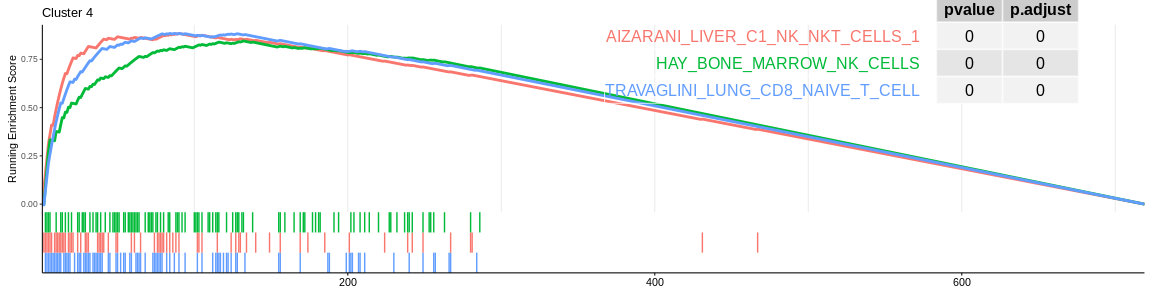
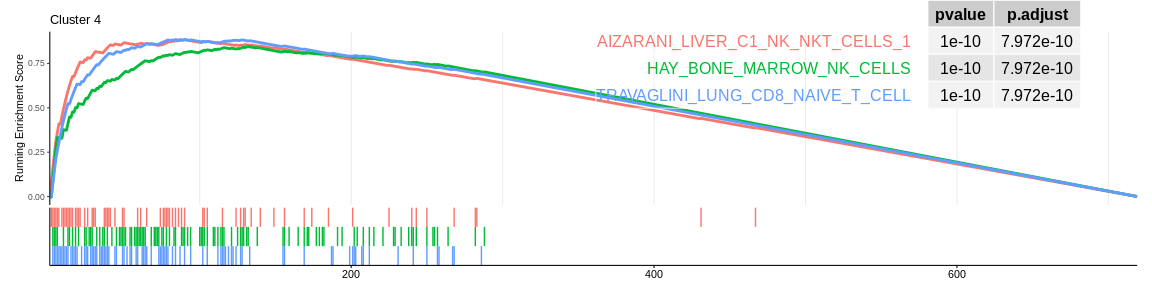
update seurat v5 GSEA

Changed region(s): [[0.0, 0.0, 1.0, 1.0], [0.0312, 0.0312, 0.0938, 0.0938]]

diff --git a/docs/scRNAseq_basics/gsea.md b/docs/scRNAseq_basics/gsea.md
@@ -138,18 +138,18 @@ C8_t2g <- msigdbr(species = "Homo sapiens", category = "C8") %>%
   kable(head(C8_t2g, 10))
 ```
 
-  | gs_name                          | ensembl_gene    |
-  |:---------------------------------|:----------------|
-  | AIZARANI_LIVER_C1_NK_NKT_CELLS_1 | ENSG00000123146 |
-  | AIZARANI_LIVER_C1_NK_NKT_CELLS_1 | ENSG00000205336 |
-  | AIZARANI_LIVER_C1_NK_NKT_CELLS_1 | ENSG00000106948 |
-  | AIZARANI_LIVER_C1_NK_NKT_CELLS_1 | ENSG00000132965 |
-  | AIZARANI_LIVER_C1_NK_NKT_CELLS_1 | ENSG00000244509 |
-  | AIZARANI_LIVER_C1_NK_NKT_CELLS_1 | ENSG00000239713 |
-  | AIZARANI_LIVER_C1_NK_NKT_CELLS_1 | ENSG00000163219 |
-  | AIZARANI_LIVER_C1_NK_NKT_CELLS_1 | ENSG00000186517 |
-  | AIZARANI_LIVER_C1_NK_NKT_CELLS_1 | ENSG00000180448 |
-  | AIZARANI_LIVER_C1_NK_NKT_CELLS_1 | ENSG00000123329 |
+| gs_name                    | ensembl_gene    |
+|:---------------------------|:----------------|
+| AIZARANI_LIVER_C10_MVECS_1 | ENSG00000175899 |
+| AIZARANI_LIVER_C10_MVECS_1 | ENSG00000213088 |
+| AIZARANI_LIVER_C10_MVECS_1 | ENSG00000102575 |
+| AIZARANI_LIVER_C10_MVECS_1 | ENSG00000139567 |
+| AIZARANI_LIVER_C10_MVECS_1 | ENSG00000143537 |
+| AIZARANI_LIVER_C10_MVECS_1 | ENSG00000154734 |
+| AIZARANI_LIVER_C10_MVECS_1 | ENSG00000163638 |
+| AIZARANI_LIVER_C10_MVECS_1 | ENSG00000129467 |
+| AIZARANI_LIVER_C10_MVECS_1 | ENSG00000284814 |
+| AIZARANI_LIVER_C10_MVECS_1 | ENSG00000069122 |
 
 ``` r
 ## Apply GSEA for each cluster
@@ -169,14 +169,6 @@ GSEA_list <- lapply(levels(pbmc_markers_annotated$cluster), function(cluster_nam
   ## Perform GSEA analysis
   gseaC8 <- GSEA(geneList_byclus, TERM2GENE = C8_t2g)
   gseaC8@result$cluster <- cluster_name #add cluster name as column
-
-  ## Add plot
-  # print(ridgeplot(gseaC8,
-  #                 showCategory = 3,
-  #                 orderBy = "NES") +
-  #         ggtitle(paste("Cluster", cluster_name)) +
-  #         theme(axis.text.y = element_text(size = 10),
-  #               legend.key.size = unit(0.2, 'cm')))
 
   print(gseaplot2(gseaC8,
                   geneSetID = rownames(gseaC8@result %>%
@@ -203,39 +195,44 @@ GSEA_res <- GSEA_res %>%
   group_by(cluster)
 
 ## Visualize first 3 signatures for each cluster (removing the vector of genes just for the visualization and the description that match ID column for this dataset MSigDB)
-kable(top_n(x= GSEA_res, n = 3, wt = NES)[, -c(2,11)])
+kable(slice_max(
+  GSEA_res, 
+  n = 3, 
+  order_by = NES,
+  with_ties = FALSE)[, -c(2, 11)]
+)
 ```
 
 ??? abstract "First Enriched MSigDB gene sets for each cluster"
-    | ID                                                      | setSize | enrichmentScore |      NES |  pvalue |  p.adjust |   qvalues | rank | leading_edge                   | cluster |
-    |:--------------------------------------------------------|--------:|----------------:|---------:|--------:|----------:|----------:|-----:|:-------------------------------|:--------|
-    | HAY_BONE_MARROW_NAIVE_T\_CELL                           |     208 |       0.9209917 | 3.046758 | 0.0e+00 | 0.0000000 | 0.0000000 |  216 | tags=76%, list=17%, signal=75% | 0       |
-    | RUBENSTEIN_SKELETAL_MUSCLE_T\_CELLS                     |     153 |       0.8553262 | 2.739346 | 0.0e+00 | 0.0000000 | 0.0000000 |  146 | tags=67%, list=11%, signal=67% | 0       |
-    | TRAVAGLINI_LUNG_CD4_NAIVE_T\_CELL                       |     116 |       0.9155134 | 2.824719 | 0.0e+00 | 0.0000000 | 0.0000000 |  135 | tags=75%, list=11%, signal=74% | 0       |
-    | AIZARANI_LIVER_C23_KUPFFER_CELLS_3                      |     142 |       0.8455834 | 2.003393 | 0.0e+00 | 0.0000000 | 0.0000000 |  257 | tags=68%, list=16%, signal=62% | 1       |
-    | DURANTE_ADULT_OLFACTORY_NEUROEPITHELIUM_DENDRITIC_CELLS |     101 |       0.8823161 | 2.065142 | 0.0e+00 | 0.0000000 | 0.0000000 |  192 | tags=72%, list=12%, signal=68% | 1       |
-    | TRAVAGLINI_LUNG_CLASSICAL_MONOCYTE_CELL                 |     168 |       0.8365088 | 1.997979 | 0.0e+00 | 0.0000000 | 0.0000000 |  265 | tags=69%, list=16%, signal=64% | 1       |
-    | HAY_BONE_MARROW_NAIVE_T\_CELL                           |     230 |       0.7672855 | 3.015408 | 0.0e+00 | 0.0000000 | 0.0000000 |  260 | tags=67%, list=25%, signal=64% | 2       |
-    | RUBENSTEIN_SKELETAL_MUSCLE_T\_CELLS                     |     145 |       0.7263295 | 2.725064 | 0.0e+00 | 0.0000000 | 0.0000000 |  192 | tags=58%, list=19%, signal=55% | 2       |
-    | TRAVAGLINI_LUNG_CD4_NAIVE_T\_CELL                       |     107 |       0.7627843 | 2.748389 | 0.0e+00 | 0.0000000 | 0.0000000 |  180 | tags=64%, list=17%, signal=59% | 2       |
-    | AIZARANI_LIVER_C34_MHC_II_POS_B\_CELLS                  |      83 |       0.9034082 | 2.063760 | 0.0e+00 | 0.0000000 | 0.0000000 |  152 | tags=80%, list=13%, signal=75% | 3       |
-    | FAN_EMBRYONIC_CTX_BRAIN_B\_CELL                         |      70 |       0.9140261 | 2.070592 | 0.0e+00 | 0.0000000 | 0.0000000 |  103 | tags=66%, list=9%, signal=64%  | 3       |
-    | TRAVAGLINI_LUNG_B\_CELL                                 |     112 |       0.9092172 | 2.119503 | 0.0e+00 | 0.0000000 | 0.0000000 |  121 | tags=68%, list=10%, signal=67% | 3       |
-    | AIZARANI_LIVER_C1_NK_NKT_CELLS_1                        |      70 |       0.8838737 | 2.284841 | 0.0e+00 | 0.0000000 | 0.0000000 |   90 | tags=64%, list=13%, signal=62% | 4       |
-    | HAY_BONE_MARROW_NK_CELLS                                |     105 |       0.8450920 | 2.260853 | 0.0e+00 | 0.0000000 | 0.0000000 |  132 | tags=68%, list=18%, signal=65% | 4       |
-    | TRAVAGLINI_LUNG_CD8_NAIVE_T\_CELL                       |      92 |       0.8842939 | 2.338596 | 0.0e+00 | 0.0000000 | 0.0000000 |   90 | tags=62%, list=13%, signal=62% | 4       |
-    | AIZARANI_LIVER_C31_KUPFFER_CELLS_5                      |      53 |       0.8510682 | 1.948702 | 0.0e+00 | 0.0000000 | 0.0000000 |  191 | tags=68%, list=10%, signal=63% | 5       |
-    | HAY_BONE_MARROW_MONOCYTE                                |     191 |       0.8332887 | 2.001325 | 0.0e+00 | 0.0000000 | 0.0000000 |  295 | tags=73%, list=16%, signal=68% | 5       |
-    | TRAVAGLINI_LUNG_NONCLASSICAL_MONOCYTE_CELL              |     163 |       0.8581938 | 2.050371 | 0.0e+00 | 0.0000000 | 0.0000000 |  301 | tags=81%, list=16%, signal=75% | 5       |
-    | DURANTE_ADULT_OLFACTORY_NEUROEPITHELIUM_NK_CELLS        |      72 |       0.8853806 | 2.022495 | 0.0e+00 | 0.0000000 | 0.0000000 |  131 | tags=71%, list=13%, signal=66% | 6       |
-    | HAY_BONE_MARROW_NK_CELLS                                |     236 |       0.8420024 | 1.990762 | 0.0e+00 | 0.0000000 | 0.0000000 |  196 | tags=56%, list=19%, signal=59% | 6       |
-    | TRAVAGLINI_LUNG_NATURAL_KILLER_CELL                     |     108 |       0.8994932 | 2.104728 | 0.0e+00 | 0.0000000 | 0.0000000 |  124 | tags=69%, list=12%, signal=67% | 6       |
-    | HAY_BONE_MARROW_DENDRITIC_CELL                          |      96 |       0.8483908 | 2.413478 | 0.0e+00 | 0.0000000 | 0.0000000 |   99 | tags=49%, list=6%, signal=49%  | 7       |
-    | DESCARTES_FETAL_LUNG_MYELOID_CELLS                      |      62 |       0.8072714 | 2.240695 | 0.0e+00 | 0.0000000 | 0.0000000 |  145 | tags=55%, list=8%, signal=52%  | 7       |
-    | TRAVAGLINI_LUNG_PLASMACYTOID_DENDRITIC_CELL             |      41 |       0.8240860 | 2.252436 | 8.0e-07 | 0.0000107 | 0.0000073 |  128 | tags=51%, list=7%, signal=49%  | 7       |
-    | DESCARTES_FETAL_LIVER_MEGAKARYOCYTES                    |      55 |       0.8328324 | 1.392413 | 2.1e-06 | 0.0000795 | 0.0000704 |   83 | tags=56%, list=13%, signal=54% | 8       |
-    | DESCARTES_FETAL_ADRENAL_MEGAKARYOCYTES                  |      43 |       0.8505604 | 1.416959 | 4.6e-06 | 0.0001235 | 0.0001092 |   74 | tags=63%, list=11%, signal=60% | 8       |
-    | DESCARTES_FETAL_KIDNEY_MEGAKARYOCYTES                   |      32 |       0.8561275 | 1.417434 | 5.7e-05 | 0.0010710 | 0.0009475 |   69 | tags=66%, list=11%, signal=62% | 8       |
+    | ID                                                      | setSize | enrichmentScore |      NES |   pvalue |  p.adjust |    qvalue | rank | leading_edge                   | cluster |
+    |:----------------------|----:|-------:|----:|----:|----:|----:|--:|:------------|:----|
+    | HAY_BONE_MARROW_NAIVE_T_CELL                            |     208 |       0.9209917 | 3.040190 | 0.00e+00 | 0.0000000 | 0.0000000 |  216 | tags=76%, list=17%, signal=75% | 0       |
+    | TRAVAGLINI_LUNG_CD4_NAIVE_T_CELL                        |     116 |       0.9155134 | 2.810199 | 0.00e+00 | 0.0000000 | 0.0000000 |  135 | tags=75%, list=11%, signal=74% | 0       |
+    | RUBENSTEIN_SKELETAL_MUSCLE_T_CELLS                      |     153 |       0.8553262 | 2.728288 | 0.00e+00 | 0.0000000 | 0.0000000 |  146 | tags=67%, list=11%, signal=67% | 0       |
+    | DURANTE_ADULT_OLFACTORY_NEUROEPITHELIUM_DENDRITIC_CELLS |     101 |       0.8823161 | 2.077092 | 0.00e+00 | 0.0000000 | 0.0000000 |  192 | tags=72%, list=12%, signal=68% | 1       |
+    | AIZARANI_LIVER_C23_KUPFFER_CELLS_3                      |     142 |       0.8455834 | 2.014606 | 0.00e+00 | 0.0000000 | 0.0000000 |  257 | tags=68%, list=16%, signal=62% | 1       |
+    | TRAVAGLINI_LUNG_CLASSICAL_MONOCYTE_CELL                 |     168 |       0.8365088 | 2.004205 | 0.00e+00 | 0.0000000 | 0.0000000 |  265 | tags=69%, list=16%, signal=64% | 1       |
+    | HAY_BONE_MARROW_NAIVE_T_CELL                            |     230 |       0.7672855 | 3.036834 | 0.00e+00 | 0.0000000 | 0.0000000 |  260 | tags=67%, list=25%, signal=64% | 2       |
+    | TRAVAGLINI_LUNG_CD4_NAIVE_T_CELL                        |     107 |       0.7627843 | 2.788339 | 0.00e+00 | 0.0000000 | 0.0000000 |  180 | tags=64%, list=17%, signal=59% | 2       |
+    | RUBENSTEIN_SKELETAL_MUSCLE_T_CELLS                      |     145 |       0.7263295 | 2.750747 | 0.00e+00 | 0.0000000 | 0.0000000 |  192 | tags=58%, list=19%, signal=55% | 2       |
+    | TRAVAGLINI_LUNG_B_CELL                                  |     112 |       0.9092172 | 2.110121 | 0.00e+00 | 0.0000000 | 0.0000000 |  121 | tags=68%, list=10%, signal=67% | 3       |
+    | AIZARANI_LIVER_C34_MHC_II_POS_B_CELLS                   |      83 |       0.9034082 | 2.074433 | 0.00e+00 | 0.0000000 | 0.0000000 |  152 | tags=80%, list=13%, signal=75% | 3       |
+    | FAN_EMBRYONIC_CTX_BRAIN_B_CELL                          |      70 |       0.9140261 | 2.065855 | 0.00e+00 | 0.0000000 | 0.0000000 |  103 | tags=66%, list=9%, signal=64%  | 3       |
+    | TRAVAGLINI_LUNG_CD8_NAIVE_T_CELL                        |      92 |       0.8842939 | 2.386819 | 0.00e+00 | 0.0000000 | 0.0000000 |   90 | tags=62%, list=13%, signal=62% | 4       |
+    | HAY_BONE_MARROW_NK_CELLS                                |     105 |       0.8450920 | 2.289715 | 0.00e+00 | 0.0000000 | 0.0000000 |  132 | tags=68%, list=18%, signal=65% | 4       |
+    | AIZARANI_LIVER_C1_NK_NKT_CELLS_1                        |      70 |       0.8838737 | 2.287887 | 0.00e+00 | 0.0000000 | 0.0000000 |   90 | tags=64%, list=13%, signal=62% | 4       |
+    | TRAVAGLINI_LUNG_NONCLASSICAL_MONOCYTE_CELL              |     163 |       0.8581938 | 2.048972 | 0.00e+00 | 0.0000000 | 0.0000000 |  301 | tags=81%, list=16%, signal=75% | 5       |
+    | HAY_BONE_MARROW_MONOCYTE                                |     191 |       0.8332887 | 1.990825 | 0.00e+00 | 0.0000000 | 0.0000000 |  295 | tags=73%, list=16%, signal=68% | 5       |
+    | AIZARANI_LIVER_C31_KUPFFER_CELLS_5                      |      53 |       0.8510682 | 1.952480 | 0.00e+00 | 0.0000000 | 0.0000000 |  191 | tags=68%, list=10%, signal=63% | 5       |
+    | TRAVAGLINI_LUNG_NATURAL_KILLER_CELL                     |     108 |       0.8994932 | 2.109996 | 0.00e+00 | 0.0000000 | 0.0000000 |  124 | tags=69%, list=12%, signal=67% | 6       |
+    | DURANTE_ADULT_OLFACTORY_NEUROEPITHELIUM_NK_CELLS        |      72 |       0.8853806 | 2.024887 | 0.00e+00 | 0.0000000 | 0.0000000 |  131 | tags=71%, list=13%, signal=66% | 6       |
+    | HAY_BONE_MARROW_NK_CELLS                                |     236 |       0.8420024 | 2.006702 | 0.00e+00 | 0.0000000 | 0.0000000 |  196 | tags=56%, list=19%, signal=59% | 6       |
+    | HAY_BONE_MARROW_DENDRITIC_CELL                          |      96 |       0.8483908 | 2.436756 | 0.00e+00 | 0.0000000 | 0.0000000 |   99 | tags=49%, list=6%, signal=49%  | 7       |
+    | TRAVAGLINI_LUNG_PLASMACYTOID_DENDRITIC_CELL             |      41 |       0.8240860 | 2.289426 | 1.00e-07 | 0.0000017 | 0.0000011 |  128 | tags=51%, list=7%, signal=49%  | 7       |
+    | DESCARTES_FETAL_LUNG_MYELOID_CELLS                      |      62 |       0.8072714 | 2.288988 | 0.00e+00 | 0.0000000 | 0.0000000 |  145 | tags=55%, list=8%, signal=52%  | 7       |
+    | DESCARTES_FETAL_KIDNEY_MEGAKARYOCYTES                   |      32 |       0.8561275 | 1.435384 | 7.06e-05 | 0.0012628 | 0.0011172 |   69 | tags=66%, list=11%, signal=62% | 8       |
+    | DESCARTES_FETAL_ADRENAL_MEGAKARYOCYTES                  |      43 |       0.8505604 | 1.424486 | 5.00e-06 | 0.0001346 | 0.0001191 |   74 | tags=63%, list=11%, signal=60% | 8       |
+    | DESCARTES_FETAL_LIVER_MEGAKARYOCYTES                    |      55 |       0.8328324 | 1.394386 | 4.00e-06 | 0.0001245 | 0.0001102 |   83 | tags=56%, list=13%, signal=54% | 8       |
 
 
 ## CellMarkers
@@ -279,7 +276,7 @@ kable(head(cell_marker_data, 10))
 ```
 
 | speciesType | tissueType         | UberonOntologyID | cancerType                     | cellType    | cellName                           | CellOntologyID | cellMarker                                     | geneSymbol                                                                      | geneID                                                              | proteinName                                                                  | proteinID                                                                                      | markerResource | PMID     | Company |
-|:------------|:-------------------|:-----------------|:-------------------------------|:------------|:-----------------------------------|:---------------|:-----------------------------------------------|:--------------------------------------------------------------------------------|:--------------------------------------------------------------------|:-----------------------------------------------------------------------------|:-----------------------------------------------------------------------------------------------|:---------------|:---------|:--------|
+|:--|:---|:--|:----|:--|:----|:--|:------|:---------|:-------|:--------|:----------|:--|:-|:-|
 | Human       | Kidney             | UBERON_0002113   | Normal                         | Normal cell | Proximal tubular cell              | NA             | Intestinal Alkaline Phosphatase                | ALPI                                                                            | 248                                                                 | PPBI                                                                         | P09923                                                                                         | Experiment     | 9263997  | NA      |
 | Human       | Liver              | UBERON_0002107   | Normal                         | Normal cell | Ito cell (hepatic stellate cell)   | CL_0000632     | Synaptophysin                                  | SYP                                                                             | 6855                                                                | SYPH                                                                         | P08247                                                                                         | Experiment     | 10595912 | NA      |
 | Human       | Endometrium        | UBERON_0001295   | Normal                         | Normal cell | Trophoblast cell                   | CL_0000351     | CEACAM1                                        | CEACAM1                                                                         | 634                                                                 | CEAM1                                                                        | P13688                                                                                         | Experiment     | 10751340 | NA      |
@@ -294,40 +291,32 @@ kable(head(cell_marker_data, 10))
 ``` r
 ## Apply GSEA for each cluster
 GSEA_CM_list <- lapply(levels(pbmc_markers_annotated$cluster), function(cluster_name){
-  
+
   res_markers <- subset(pbmc_markers_annotated, cluster == cluster_name)                     #Filter markers dataframe by cluster
-  
+
   ## Generate named vector of ranked gene mandatory for GSEA analysis that take into account DE importance and significativity
   geneList_byclus <- sign(res_markers$avg_log2FC) * -log10(ifelse(res_markers$p_val == 0,    #Deal with pval = 0
                                                                   1e-323,                    #Smallest interpretable number
                                                                   res_markers$p_val))
   names(geneList_byclus) <- res_markers$external_gene_name
-  
+
   ## Order by avg log FC and significativity
   geneList_byclus <- sort(geneList_byclus, decreasing = TRUE)
-  
+
   ## Perform GSEA analysis
   gseaCM <- GSEA(geneList_byclus, TERM2GENE = cells)
   gseaCM@result$cluster <- cluster_name #add cluster name as column
-  
-  ## Add plot
-  # print(ridgeplot(gseaCM, 
-  #                 showCategory = 5, 
-  #                 orderBy = "NES") +
-  #         ggtitle(paste("Cluster", cluster_name)) +
-  #         theme(axis.text.y = element_text(size = 10),
-  #               legend.key.size = unit(0.2, 'cm')))
-  
-  print(gseaplot2(gseaCM, 
-                  geneSetID = rownames(gseaCM@result %>% 
-                                         arrange(desc(NES)))[1:ifelse(nrow(gseaCM) < 3, 
-                                                                      nrow(gseaCM), 
+
+  print(gseaplot2(gseaCM,
+                  geneSetID = rownames(gseaCM@result %>%
+                                         arrange(desc(NES)))[1:ifelse(nrow(gseaCM) < 3,
+                                                                      nrow(gseaCM),
                                                                       3)],
                   base_size = 8,
-                  pvalue_table = TRUE, 
+                  pvalue_table = TRUE,
                   subplots = 1:2,
                   title = paste("Cluster", cluster_name)))
-  
+
   return(gseaCM@result) #Return dataframe result
 })
 ```
@@ -339,41 +328,47 @@ GSEA_CM_list <- lapply(levels(pbmc_markers_annotated$cluster), function(cluster_
 GSEA_CM_res <- do.call("rbind", GSEA_CM_list)
 
 ## Group result by cluster (easier to manipulate with dplyr)
-GSEA_CM_res <- GSEA_CM_res %>% 
+GSEA_CM_res <- GSEA_CM_res %>%
   group_by(cluster)
 
 ## Visualise first 3 signatures for each cluster (removing the vector of genes just for the visualisation and the description that match ID column for this dataset MSigDB)
-kable(top_n(x= GSEA_CM_res, n = 3, wt = NES)[, -c(2,11)])
+kable(slice_max(
+  GSEA_CM_res, 
+  n = 3, 
+  order_by = NES,
+  with_ties = FALSE)[, -c(2, 11)]
+)
 ```
 
 ??? abstract "First Enriched CellMarker gene sets for each cluster"
-    | ID                                 | setSize | enrichmentScore |       NES |    pvalue |  p.adjust |   qvalues | rank | leading_edge                   | cluster |
-    |:-----------------------------------|--------:|----------------:|----------:|----------:|----------:|----------:|-----:|:-------------------------------|:--------|
-    | Leydig precursor cell              |      44 |       0.8602093 |  2.256066 | 0.0000000 | 0.0000000 | 0.0000000 |  132 | tags=70%, list=10%, signal=65% | 0       |
-    | Mitotic fetal germ cell            |     164 |       0.6500399 |  2.095496 | 0.0000000 | 0.0000000 | 0.0000000 |  135 | tags=35%, list=11%, signal=36% | 0       |
-    | Naive CD8+ T cell                  |      45 |       0.8009130 |  2.108249 | 0.0000000 | 0.0000003 | 0.0000002 |  212 | tags=78%, list=17%, signal=67% | 0       |
-    | Monocyte                           |     423 |       0.8131596 |  1.974827 | 0.0000000 | 0.0000000 | 0.0000000 |  332 | tags=54%, list=21%, signal=58% | 1       |
-    | Paneth cell                        |     119 |       0.7580558 |  1.785342 | 0.0000000 | 0.0000000 | 0.0000000 |  327 | tags=61%, list=20%, signal=53% | 1       |
-    | Neutrophil                         |      41 |       0.8413770 |  1.817697 | 0.0000002 | 0.0000036 | 0.0000025 |  172 | tags=66%, list=11%, signal=60% | 1       |
-    | CD4+ T cell                        |      14 |       0.8825202 |  2.213082 | 0.0000002 | 0.0000023 | 0.0000013 |   52 | tags=64%, list=5%, signal=62%  | 2       |
-    | T helper cell                      |      12 |       0.8630525 |  2.103741 | 0.0000084 | 0.0000529 | 0.0000292 |  106 | tags=75%, list=10%, signal=68% | 2       |
-    | Activated T cell                   |      10 |       0.8687549 |  2.035541 | 0.0000261 | 0.0001498 | 0.0000826 |  101 | tags=70%, list=10%, signal=64% | 2       |
-    | B cell                             |     178 |       0.8779346 |  2.075372 | 0.0000000 | 0.0000000 | 0.0000000 |  167 | tags=61%, list=14%, signal=61% | 3       |
-    | Secretory cell                     |      18 |       0.9223015 |  1.811398 | 0.0000023 | 0.0000758 | 0.0000572 |   32 | tags=61%, list=3%, signal=60%  | 3       |
-    | Plasma cell                        |      15 |       0.8797950 |  1.678179 | 0.0012256 | 0.0117304 | 0.0088462 |   78 | tags=60%, list=7%, signal=57%  | 3       |
-    | CD4+ cytotoxic T cell              |      37 |       0.8900805 |  2.090355 | 0.0000000 | 0.0000000 | 0.0000000 |   55 | tags=59%, list=8%, signal=58%  | 4       |
-    | Natural killer cell                |      30 |       0.8370655 |  1.896569 | 0.0000201 | 0.0001404 | 0.0000871 |   72 | tags=60%, list=10%, signal=56% | 4       |
-    | CD8+ T cell                        |      13 |       0.9231380 |  1.880140 | 0.0000652 | 0.0004054 | 0.0002515 |   40 | tags=69%, list=6%, signal=67%  | 4       |
-    | CD1C-CD141- dendritic cell         |     234 |       0.8010932 |  1.915014 | 0.0000000 | 0.0000000 | 0.0000000 |  314 | tags=59%, list=17%, signal=56% | 5       |
-    | Monocyte                           |     452 |       0.7167580 |  1.731494 | 0.0000000 | 0.0000000 | 0.0000000 |  427 | tags=50%, list=23%, signal=51% | 5       |
-    | Paneth cell                        |     143 |       0.7375016 |  1.742889 | 0.0000000 | 0.0000000 | 0.0000000 |  204 | tags=41%, list=11%, signal=40% | 5       |
-    | CD4+ cytotoxic T cell              |      56 |       0.8789105 |  1.987043 | 0.0000000 | 0.0000000 | 0.0000000 |  116 | tags=66%, list=11%, signal=62% | 6       |
-    | Effector CD8+ memory T (Tem) cell  |      48 |       0.8512421 |  1.908905 | 0.0000000 | 0.0000002 | 0.0000002 |  116 | tags=54%, list=11%, signal=50% | 6       |
-    | Natural killer cell                |      41 |       0.8669408 |  1.918940 | 0.0000000 | 0.0000005 | 0.0000003 |   55 | tags=49%, list=5%, signal=48%  | 6       |
-    | CD1C+\_A dendritic cell            |      16 |       0.9085712 |  2.285287 | 0.0000043 | 0.0001444 | 0.0001021 |   36 | tags=44%, list=2%, signal=43%  | 7       |
-    | Secretory cell                     |      16 |       0.8755798 |  2.202305 | 0.0001511 | 0.0033737 | 0.0023852 |   79 | tags=69%, list=4%, signal=66%  | 7       |
-    | Specialist antigen presenting cell |      18 |       0.8389319 |  2.138434 | 0.0004965 | 0.0066529 | 0.0047035 |  144 | tags=50%, list=8%, signal=46%  | 7       |
-    | Morula cell (Blastomere)           |      10 |      -0.7380276 | -2.257087 | 0.0000162 | 0.0005186 | 0.0004606 |   76 | tags=80%, list=12%, signal=72% | 8       |
+    | ID                                 | setSize | enrichmentScore |       NES |    pvalue |  p.adjust |    qvalue | rank | leading_edge                   | cluster |
+    |:---------------|----:|-------:|-----:|-----:|-----:|-----:|---:|:--------------|:----|
+    | Leydig precursor cell              |      44 |       0.8602093 |  2.304057 | 0.0000000 | 0.0000000 | 0.0000000 |  132 | tags=70%, list=10%, signal=65% | 0       |
+    | Naive CD8+ T cell                  |      45 |       0.8009130 |  2.161422 | 0.0000000 | 0.0000001 | 0.0000001 |  212 | tags=78%, list=17%, signal=67% | 0       |
+    | Mitotic fetal germ cell            |     164 |       0.6500399 |  2.116061 | 0.0000000 | 0.0000000 | 0.0000000 |  135 | tags=35%, list=11%, signal=36% | 0       |
+    | Monocyte                           |     423 |       0.8131596 |  1.971916 | 0.0000000 | 0.0000000 | 0.0000000 |  332 | tags=54%, list=21%, signal=58% | 1       |
+    | Neutrophil                         |      41 |       0.8413770 |  1.815000 | 0.0000003 | 0.0000044 | 0.0000031 |  172 | tags=66%, list=11%, signal=60% | 1       |
+    | Paneth cell                        |     119 |       0.7580558 |  1.789124 | 0.0000000 | 0.0000000 | 0.0000000 |  327 | tags=61%, list=20%, signal=53% | 1       |
+    | CD4+ T cell                        |      14 |       0.8825202 |  2.128362 | 0.0000001 | 0.0000011 | 0.0000006 |   52 | tags=64%, list=5%, signal=62%  | 2       |
+    | T helper cell                      |      12 |       0.8630525 |  2.005726 | 0.0000138 | 0.0000871 | 0.0000480 |  106 | tags=75%, list=10%, signal=68% | 2       |
+    | Activated T cell                   |      10 |       0.8687549 |  1.946512 | 0.0000234 | 0.0001341 | 0.0000739 |  101 | tags=70%, list=10%, signal=64% | 2       |
+    | B cell                             |     178 |       0.8779346 |  2.084143 | 0.0000000 | 0.0000000 | 0.0000000 |  167 | tags=61%, list=14%, signal=61% | 3       |
+    | Secretory cell                     |      18 |       0.9223015 |  1.755494 | 0.0000054 | 0.0001820 | 0.0001373 |   32 | tags=61%, list=3%, signal=60%  | 3       |
+    | Plasmacytoid dendritic cell        |      62 |       0.7454877 |  1.660767 | 0.0004702 | 0.0066639 | 0.0050254 |  108 | tags=34%, list=9%, signal=32%  | 3       |
+    | CD4+ cytotoxic T cell              |      37 |       0.8900805 |  2.126355 | 0.0000000 | 0.0000000 | 0.0000000 |   55 | tags=59%, list=8%, signal=58%  | 4       |
+    | Natural killer cell                |      30 |       0.8370655 |  1.936860 | 0.0000095 | 0.0000664 | 0.0000412 |   72 | tags=60%, list=10%, signal=56% | 4       |
+    | CD8+ T cell                        |      13 |       0.9231380 |  1.904665 | 0.0000256 | 0.0001594 | 0.0000989 |   40 | tags=69%, list=6%, signal=67%  | 4       |
+    | CD1C-CD141- dendritic cell         |     234 |       0.8010932 |  1.915882 | 0.0000000 | 0.0000000 | 0.0000000 |  314 | tags=59%, list=17%, signal=56% | 5       |
+    | Paneth cell                        |     143 |       0.7375016 |  1.751359 | 0.0000000 | 0.0000000 | 0.0000000 |  204 | tags=41%, list=11%, signal=40% | 5       |
+    | Monocyte                           |     452 |       0.7167580 |  1.727644 | 0.0000000 | 0.0000000 | 0.0000000 |  427 | tags=50%, list=23%, signal=51% | 5       |
+    | CD4+ cytotoxic T cell              |      56 |       0.8789105 |  1.996487 | 0.0000000 | 0.0000000 | 0.0000000 |  116 | tags=66%, list=11%, signal=62% | 6       |
+    | Natural killer cell                |      41 |       0.8669408 |  1.918376 | 0.0000000 | 0.0000006 | 0.0000004 |   55 | tags=49%, list=5%, signal=48%  | 6       |
+    | Effector CD8+ memory T (Tem) cell  |      48 |       0.8512421 |  1.905953 | 0.0000000 | 0.0000003 | 0.0000002 |  116 | tags=54%, list=11%, signal=50% | 6       |
+    | CD1C+\_A dendritic cell            |      16 |       0.9085712 |  2.256311 | 0.0000038 | 0.0001274 | 0.0000901 |   36 | tags=44%, list=2%, signal=43%  | 7       |
+    | Secretory cell                     |      16 |       0.8755798 |  2.174381 | 0.0001587 | 0.0035432 | 0.0025050 |   79 | tags=69%, list=4%, signal=66%  | 7       |
+    | Specialist antigen presenting cell |      18 |       0.8389319 |  2.106915 | 0.0007640 | 0.0085314 | 0.0060316 |  144 | tags=50%, list=8%, signal=46%  | 7       |
+    | Platelet                           |      11 |       0.9030579 |  1.446735 | 0.0020960 | 0.0335357 | 0.0308882 |   14 | tags=36%, list=2%, signal=36%  | 8       |
+    | Morula cell (Blastomere)           |      10 |      -0.7380276 | -2.285142 | 0.0000356 | 0.0011399 | 0.0010499 |   76 | tags=80%, list=12%, signal=72% | 8       |
 
 ## Analyzing enrichment results
 
